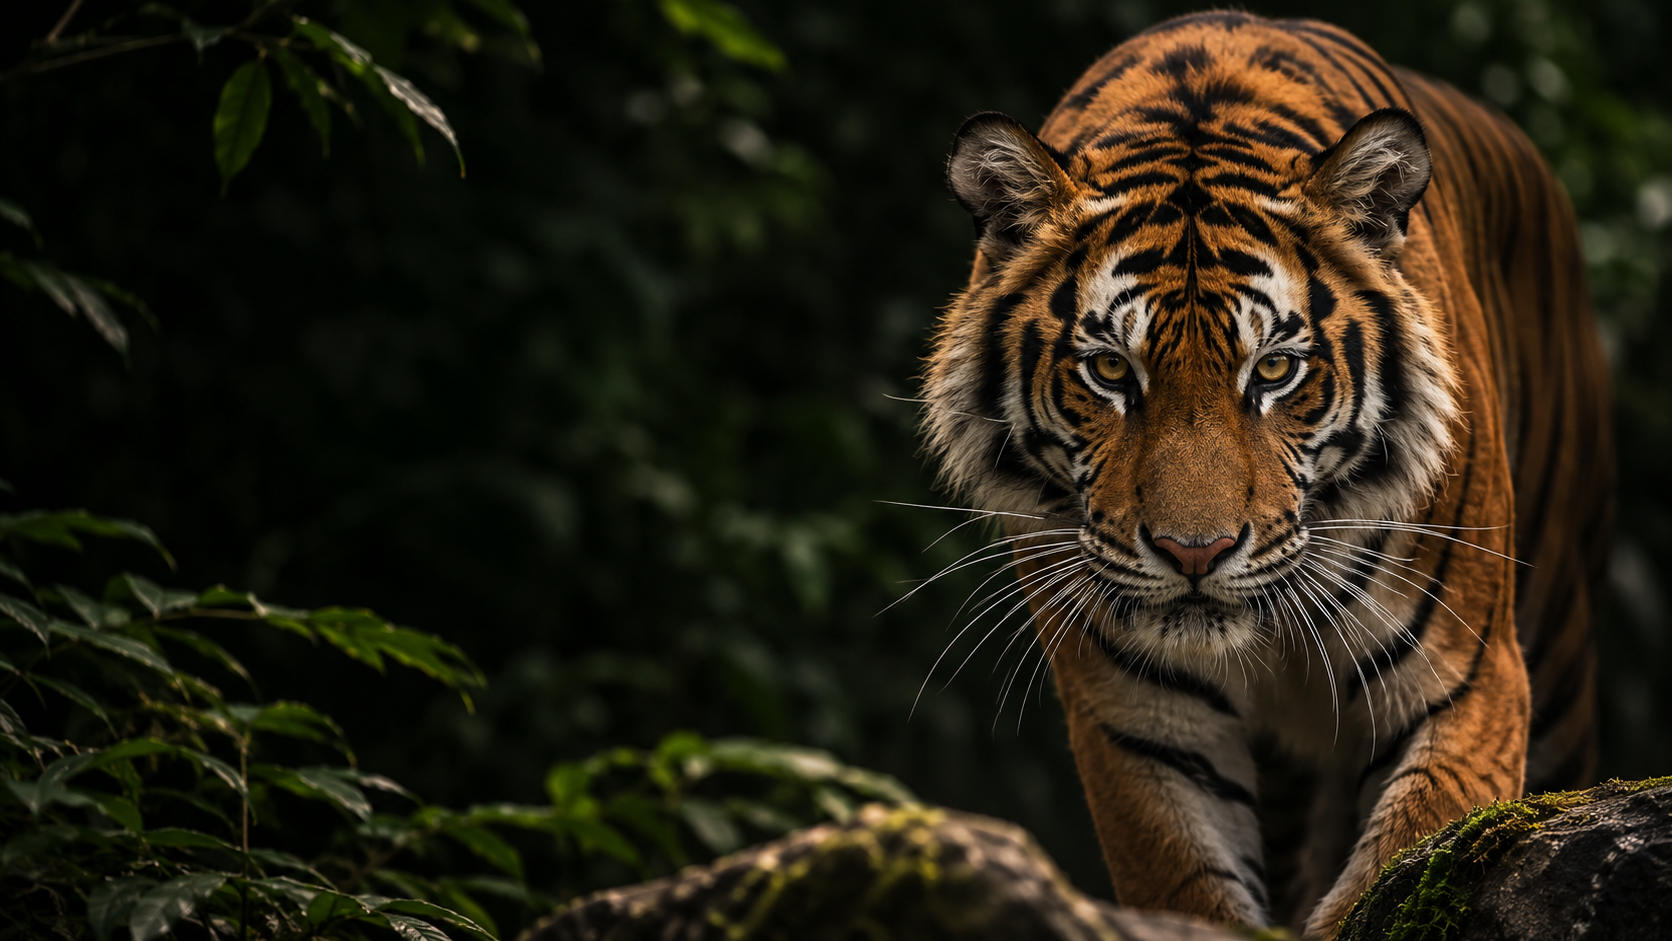
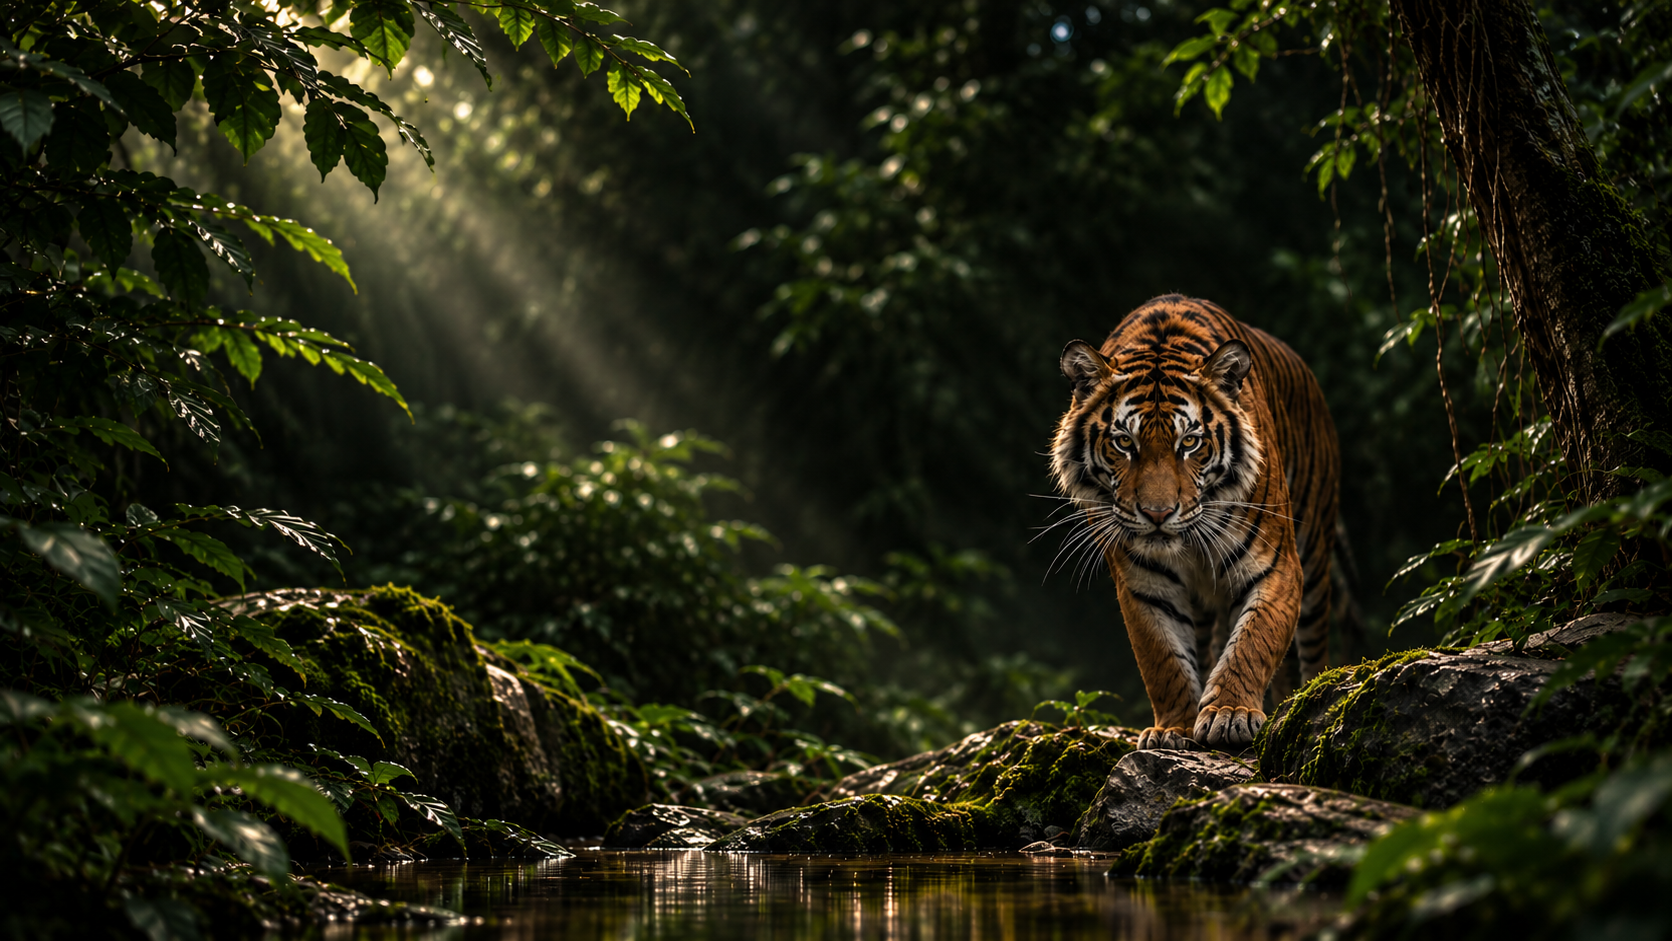
header falta o .scrolled e foto ja escolhida

diff --git a/css/style.css b/css/style.css
@@ -1,7 +1,7 @@
 @import url('https://fonts.googleapis.com/css2?family=Plus+Jakarta+Sans:wght@400;500;600;700&display=swap');
 
 :root {
-    --bg-header: #050505;
+    --bg-header-scorlled: #050505;
     --primary: #e47b20;
     --primary-hover: #cb6812;
     --primary-light: rgba(228, 123, 32, 0.1);
@@ -26,13 +26,13 @@
 
 body {
     font-family: 'Plus Jakarta Sans', sans-serif;
-    background-color: #f4f5f7;
+    background-color: #0054fc;
 }
 
-.site-header {
+header {
     width: 100%;
     height: 84px;
-    background: var(--bg-header);
+    background: transparent;
     display: flex;
     align-items: center;
     justify-content: space-between;
@@ -41,6 +41,7 @@ body {
     z-index: 1000;
     color: var(--text-light);
 }
+
 
 .logo-container img {
     width: 140px;
@@ -281,6 +282,7 @@ body {
 }
 /*hero*/
 #hero{
+    top: 0;
     background-image: url(../assets/images/hero.png);
     width: 100%;
     height: 100vh;

diff --git a/includes/header.php b/includes/header.php
@@ -1,4 +1,20 @@
-<header class="site-header">
+<?php
+
+$pageTitle = "ZooPicoas";
+
+?>
+<!DOCTYPE html>
+<html lang="en">
+<head>
+    <meta charset="UTF-8">
+    <meta name="viewport" content="width=device-width, initial-scale=1.0">
+    <title><?php echo htmlspecialchars($pageTitle); ?></title>
+    <script src="https://kit.fontawesome.com/17afc949a2.js" crossorigin="anonymous"></script>
+    <link rel="stylesheet" href="./css/style.css">
+</head>
+<body>
+
+<header>
     <div class="logo-container">
         <a href="index.php">
             <img src="./assets/images/logos/logoBranco.png" alt="Zoo de Picoas">

diff --git a/index.php b/index.php
@@ -1,6 +1,5 @@
 <?php
 
-require_once "includes/html.php";
 require_once "includes/header.php";
 ?>
 
